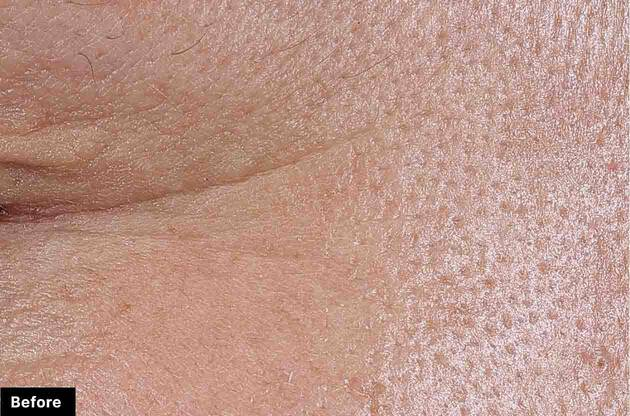
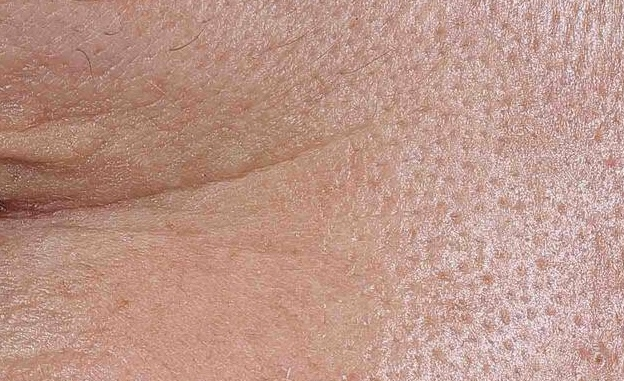
Added Comparison Container

diff --git a/index.html b/index.html
@@ -334,6 +334,34 @@
                     <b>VISIBLE RESULTS*</b>
                 </p>
             </div>
+            <div class="container py-4">
+                <div class="comparison-container">
+                    <div class="img-container">
+                        <div class="img-before">
+                            <img src="assets/before_image.jpg" alt="Before treatment">
+                        </div>
+
+                        <div class="img-after">
+                            <img src="assets/after_image.jpeg" alt="After treatment">
+                        </div>
+                    </div>
+
+                    <div class="divider" id="divider">
+                        <div class="slider-button">
+                            <div class="arrows">
+                                <span class="arrow-left">&#8249;</span>
+                                <span class="arrow-right">&#8250;</span>
+                            </div>
+                        </div>
+                    </div>
+
+                    <div class="label label-before">Before</div>
+                    <div class="label label-after">After (in 12 weeks)</div>
+                </div>
+
+                <p class="source-note">* Source: Forehead fine lines. Clinical assessment by expert, 50 women, 12 weeks.
+                </p>
+            </div>
         </section>
 
     </main>
@@ -363,6 +391,7 @@
         <i class="fas fa-arrow-up"></i>
     </div>
 
+    <!-- Buy Now Button Pop Up  -->
     <script>
         function openCustomPopup() {
             document.getElementById("customPopup").style.display = "flex";
@@ -498,6 +527,78 @@
             //     top: 0,
             //     behavior: "smooth"
             // });
+        });
+    </script>
+
+    <!-- Comparison Container -->
+    <script>
+        document.addEventListener('DOMContentLoaded', function () {
+            const container = document.querySelector('.comparison-container');
+            const beforeImg = document.querySelector('.img-before');
+            const divider = document.getElementById('divider');
+            let isDragging = false;
+
+            updatePosition(50);
+
+            function updatePosition(percent) {
+                percent = Math.max(0, Math.min(100, percent));
+
+                divider.style.left = `${percent}%`;
+
+                beforeImg.style.clipPath = `inset(0 ${100 - percent}% 0 0)`;
+            }
+
+            function calculatePosition(pageX) {
+                const rect = container.getBoundingClientRect();
+                let percent = ((pageX - rect.left) / rect.width) * 100;
+                return Math.max(0, Math.min(100, percent));
+            }
+
+            divider.addEventListener('mousedown', function (e) {
+                isDragging = true;
+                e.preventDefault();
+            });
+
+            document.addEventListener('mouseup', function () {
+                isDragging = false;
+            });
+
+            document.addEventListener('mousemove', function (e) {
+                if (!isDragging) return;
+                const percent = calculatePosition(e.pageX);
+                updatePosition(percent);
+            });
+
+
+            divider.addEventListener('touchstart', function (e) {
+                isDragging = true;
+            });
+
+            document.addEventListener('touchend', function () {
+                isDragging = false;
+            });
+
+            document.addEventListener('touchmove', function (e) {
+                if (!isDragging) return;
+                const touch = e.touches[0];
+                const percent = calculatePosition(touch.pageX);
+                updatePosition(percent);
+                e.preventDefault();
+            });
+
+            container.addEventListener('click', function (e) {
+                if (e.target === divider || divider.contains(e.target)) return;
+
+                const percent = calculatePosition(e.pageX);
+                updatePosition(percent);
+            });
+
+            window.addEventListener('resize', function () {
+                const currentLeft = parseFloat(divider.style.left);
+                if (!isNaN(currentLeft)) {
+                    updatePosition(currentLeft);
+                }
+            });
         });
     </script>
 

diff --git a/css/style.css b/css/style.css
@@ -207,3 +207,141 @@
     font-size: 20px;
     font-weight: bold;
 }
+
+/***** Comparison Container *****/
+
+.comparison-container {
+    position: relative;
+    width: 100%;
+    max-width: 600px;
+    margin: 0 auto;
+    overflow: hidden;
+    height: 380px;
+    /* aspect-ratio: 16/9; */
+}
+
+@media (max-width: 576px) {
+    .comparison-container {
+        height: 250px;
+    }
+
+    .label {
+        font-size: 12px !important;
+        padding: 3px 8px !important;
+    }
+
+    .slider-button {
+        width: 30px !important;
+        height: 30px !important;
+    }
+}
+
+.img-container {
+    position: absolute;
+    top: 0;
+    left: 0;
+    width: 100%;
+    height: 100%;
+}
+
+.img-before {
+    position: absolute;
+    top: 0;
+    left: 0;
+    width: 100%;
+    height: 100%;
+    z-index: 1;
+    clip-path: inset(0 100% 0 0);
+}
+
+.img-after {
+    position: absolute;
+    top: 0;
+    left: 0;
+    width: 100%;
+    height: 100%;
+    z-index: 0;
+}
+
+.comparison-container img {
+    width: 100%;
+    height: 100%;
+    object-fit: cover;
+    display: block;
+}
+
+.divider {
+    position: absolute;
+    top: 0;
+    left: 50%;
+    width: 3px;
+    height: 100%;
+    background-color: white;
+    transform: translateX(-50%);
+    z-index: 2;
+    cursor: ew-resize;
+}
+
+.slider-button {
+    position: absolute;
+    left: 50%;
+    top: 50%;
+    transform: translate(-50%, -50%);
+    width: 36px;
+    height: 36px;
+    background-color: white;
+    border-radius: 50%;
+    display: flex;
+    justify-content: center;
+    align-items: center;
+    box-shadow: 0 0 5px rgba(0, 0, 0, 0.5);
+    z-index: 3;
+}
+
+.slider-button .arrows {
+    display: flex;
+    align-items: center;
+    justify-content: center;
+    font-size: 18px;
+    color: #444;
+}
+
+.arrow-left {
+    margin-right: 0px;
+}
+
+.arrow-right {
+    margin-left: 0px;
+}
+
+.label {
+    position: absolute;
+    bottom: 0px;
+    background-color: rgba(0, 0, 0, 0.7);
+    color: white;
+    padding: 4px 12px;
+    font-size: 14px;
+    z-index: 3;
+}
+
+.label-before {
+    left: 0px;
+}
+
+.label-after {
+    right: 0px;
+}
+
+.source-note {
+    text-align: center;
+    font-size: 11px;
+    color: #000;
+    margin-top: 8px;
+    font-style: italic;
+}
+
+
+.height-control {
+    width: 100%;
+    max-width: 300px;
+}
